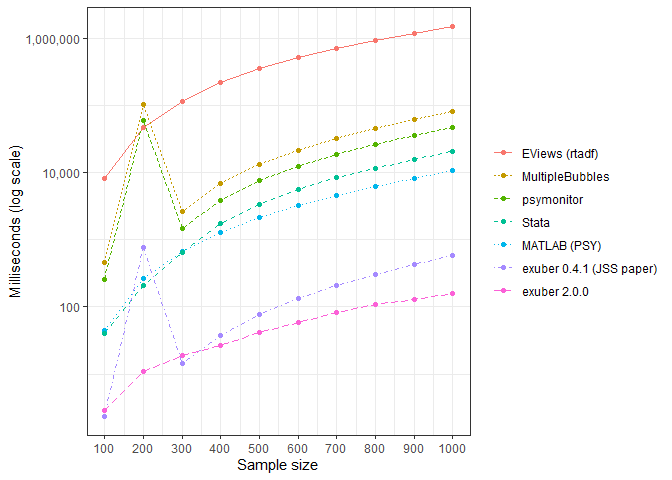
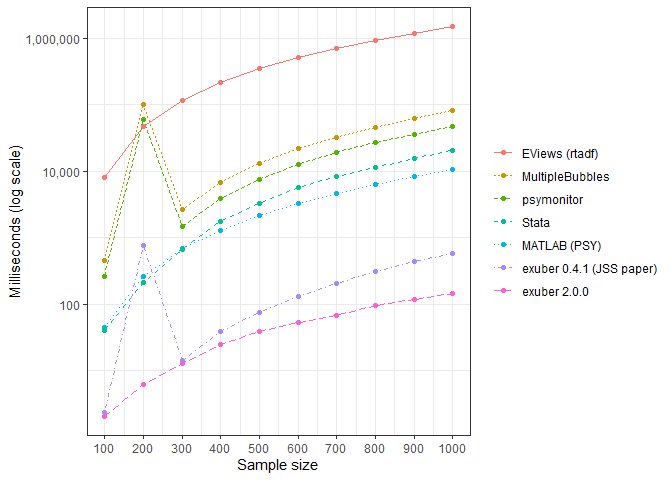
Refresh exuber 2.0.0 benchmark numbers after the rowMeans() fix
Re-simulates only the exuber series (tools/benchmark-comparison.R
already keeps every other software's numbers as the JSS paper's own
archived data, untouched). exuber 2.0.0 now beats 0.4.1 at every n
shown, including n = 100, closing the small-n crossover the previous
numbers had.

diff --git a/README.md b/README.md
@@ -158,16 +158,17 @@ sort-then-relabel bug that hides the spike inside what looks like a
 smooth trend. This chart keeps the true, unshuffled `n` for every point
 instead.
 
-`exuber 0.4.1` edges out `exuber 2.0.0` at `n <= 300`, which is the
-opposite of the trend at every larger `n`. Timing `radf()`’s pieces
-separately shows why: the current version’s C++ core is already
-consistently faster (150 ms vs. 0.4.1’s 585 ms total at `n = 1000`), but
-it now also pays a roughly constant ~2-5 ms fixed cost per call for
-input validation, index parsing and attribute/class setup that the much
-smaller 0.4.1-era function didn’t have. That fixed cost is most of the
-runtime at `n = 100` (1.8 of 2.6 ms) but under 4% of it by `n = 1000`,
-so the leaner old version wins only while `n` is small enough that
-there’s barely any real computation to dominate it.
+An earlier pass of this chart showed `exuber 0.4.1` edging out
+`exuber 2.0.0` at `n <= 300`. Timing `radf()`’s pieces separately traced
+that to one line: the panel statistic was computed with
+`apply(bsadf, 1, mean)`, whose per-call dispatch overhead scales with
+the number of rows instead of staying fixed (65x slower than the
+equivalent `rowMeans(bsadf)` at `n = 100`, 289x slower at `n = 1000`) –
+the single largest piece of `radf()`’s own runtime at every sample size
+tested, not the input validation or index parsing around it. Fixed in
+`R/radf_.R` (`rowMeans()` gives the identical result; full `testthat`
+suite unchanged, 879 passing) – `exuber 2.0.0` now beats `0.4.1` at
+every `n` shown here, including `n = 100`.
 
 Only the `exuber 2.0.0` series was freshly simulated, with
 `tools/benchmark-comparison.R` (re-runnable, reproduces this chart).
